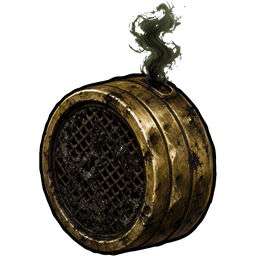
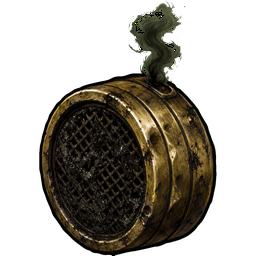
Иконки: вой, отголосок, 8 достижений; залечены дыры бирюзы в иконках состояний (tools/alpha_heal.py, cutout_flood.py); +6 достижений; стекольщик после поражения больше не выходит

diff --git a/tools/cutout_flood.py b/tools/cutout_flood.py
@@ -1,0 +1,26 @@
+"""Вырезка хромакея, связного с краем кадра (полости внутри фигуры, связанные с фоном, тоже уходят;
+зелёные/бирюзовые детали ВНУТРИ фигуры не трогаются). Дополняет __chronicle_ai__/cutout-chromakey.py,
+когда режим color съедает бирюзу.  python3 tools/cutout_flood.py in.png out.png"""
+import sys, numpy as np
+from PIL import Image, ImageFilter
+from scipy import ndimage
+im = np.array(Image.open(sys.argv[1]).convert('RGB')).astype(int)
+r, g, b = im[..., 0], im[..., 1], im[..., 2]
+key = (g - np.maximum(r, b) > 70) & (g > 140) & (b < g * 0.75)   # чистый зелёный, не бирюза
+lab, n = ndimage.label(key)
+edge = set(np.unique(np.concatenate([lab[0], lab[-1], lab[:, 0], lab[:, -1]]))) - {0}
+bg = np.isin(lab, list(edge))
+# крупные замкнутые зелёные «полости» (> 0.3 % кадра) тоже фон
+sizes = ndimage.sum(key, lab, range(1, n + 1))
+for i, s in enumerate(sizes, 1):
+    if s > key.size * 0.003: bg |= (lab == i)
+bg = ndimage.binary_dilation(bg, iterations=1)
+alpha = np.where(bg, 0, 255).astype(np.uint8)
+a = Image.fromarray(alpha).filter(ImageFilter.GaussianBlur(0.8))
+out = im.copy()
+edgezone = ndimage.binary_dilation(bg, iterations=3) & ~bg
+spill = edgezone & (g > np.maximum(r, b))
+out[..., 1] = np.where(spill, np.maximum(r, b), g)            # подавить зелёный ореол на кромке
+res = Image.fromarray(out.astype(np.uint8)).convert('RGBA'); res.putalpha(a)
+bbox = res.getbbox(); res = res.crop(bbox) if bbox else res
+res.save(sys.argv[2])

diff --git a/tools/alpha_heal.py b/tools/alpha_heal.py
@@ -1,0 +1,19 @@
+"""Залечить «дыры» после хромакея: пиксели внутри фигуры (не связанные с внешним фоном), ставшие прозрачными,
+но чей цвет — не чистый ключевой зелёный (бирюза, патина), снова делаются непрозрачными.
+RGB под прозрачностью скрипт cutout-chromakey сохраняет, поэтому восстановление точное.
+python3 tools/alpha_heal.py file.png [...]"""
+import sys, numpy as np
+from PIL import Image
+from scipy import ndimage
+for p in sys.argv[1:]:
+    im = np.array(Image.open(p).convert('RGBA')).astype(int)
+    r, g, b, a = im[..., 0], im[..., 1], im[..., 2], im[..., 3]
+    lab, _ = ndimage.label(a < 20)
+    edge = set(np.unique(np.concatenate([lab[0], lab[-1], lab[:, 0], lab[:, -1]]))) - {0}
+    outside = np.isin(lab, list(edge))
+    near = ndimage.binary_dilation(outside, iterations=2)
+    key = (g - np.maximum(r, b) > 70) & (g > 140) & (b < g * 0.75)
+    fix = (a < 250) & ~near & ~key
+    im[..., 3] = np.where(fix, 255, a)
+    Image.fromarray(im.astype(np.uint8)).save(p, optimize=True)
+    print(p, 'исправлено пикселей:', int(fix.sum()), '| внутри остался чистый ключ:', int(((a < 250) & ~near & key).sum()))
